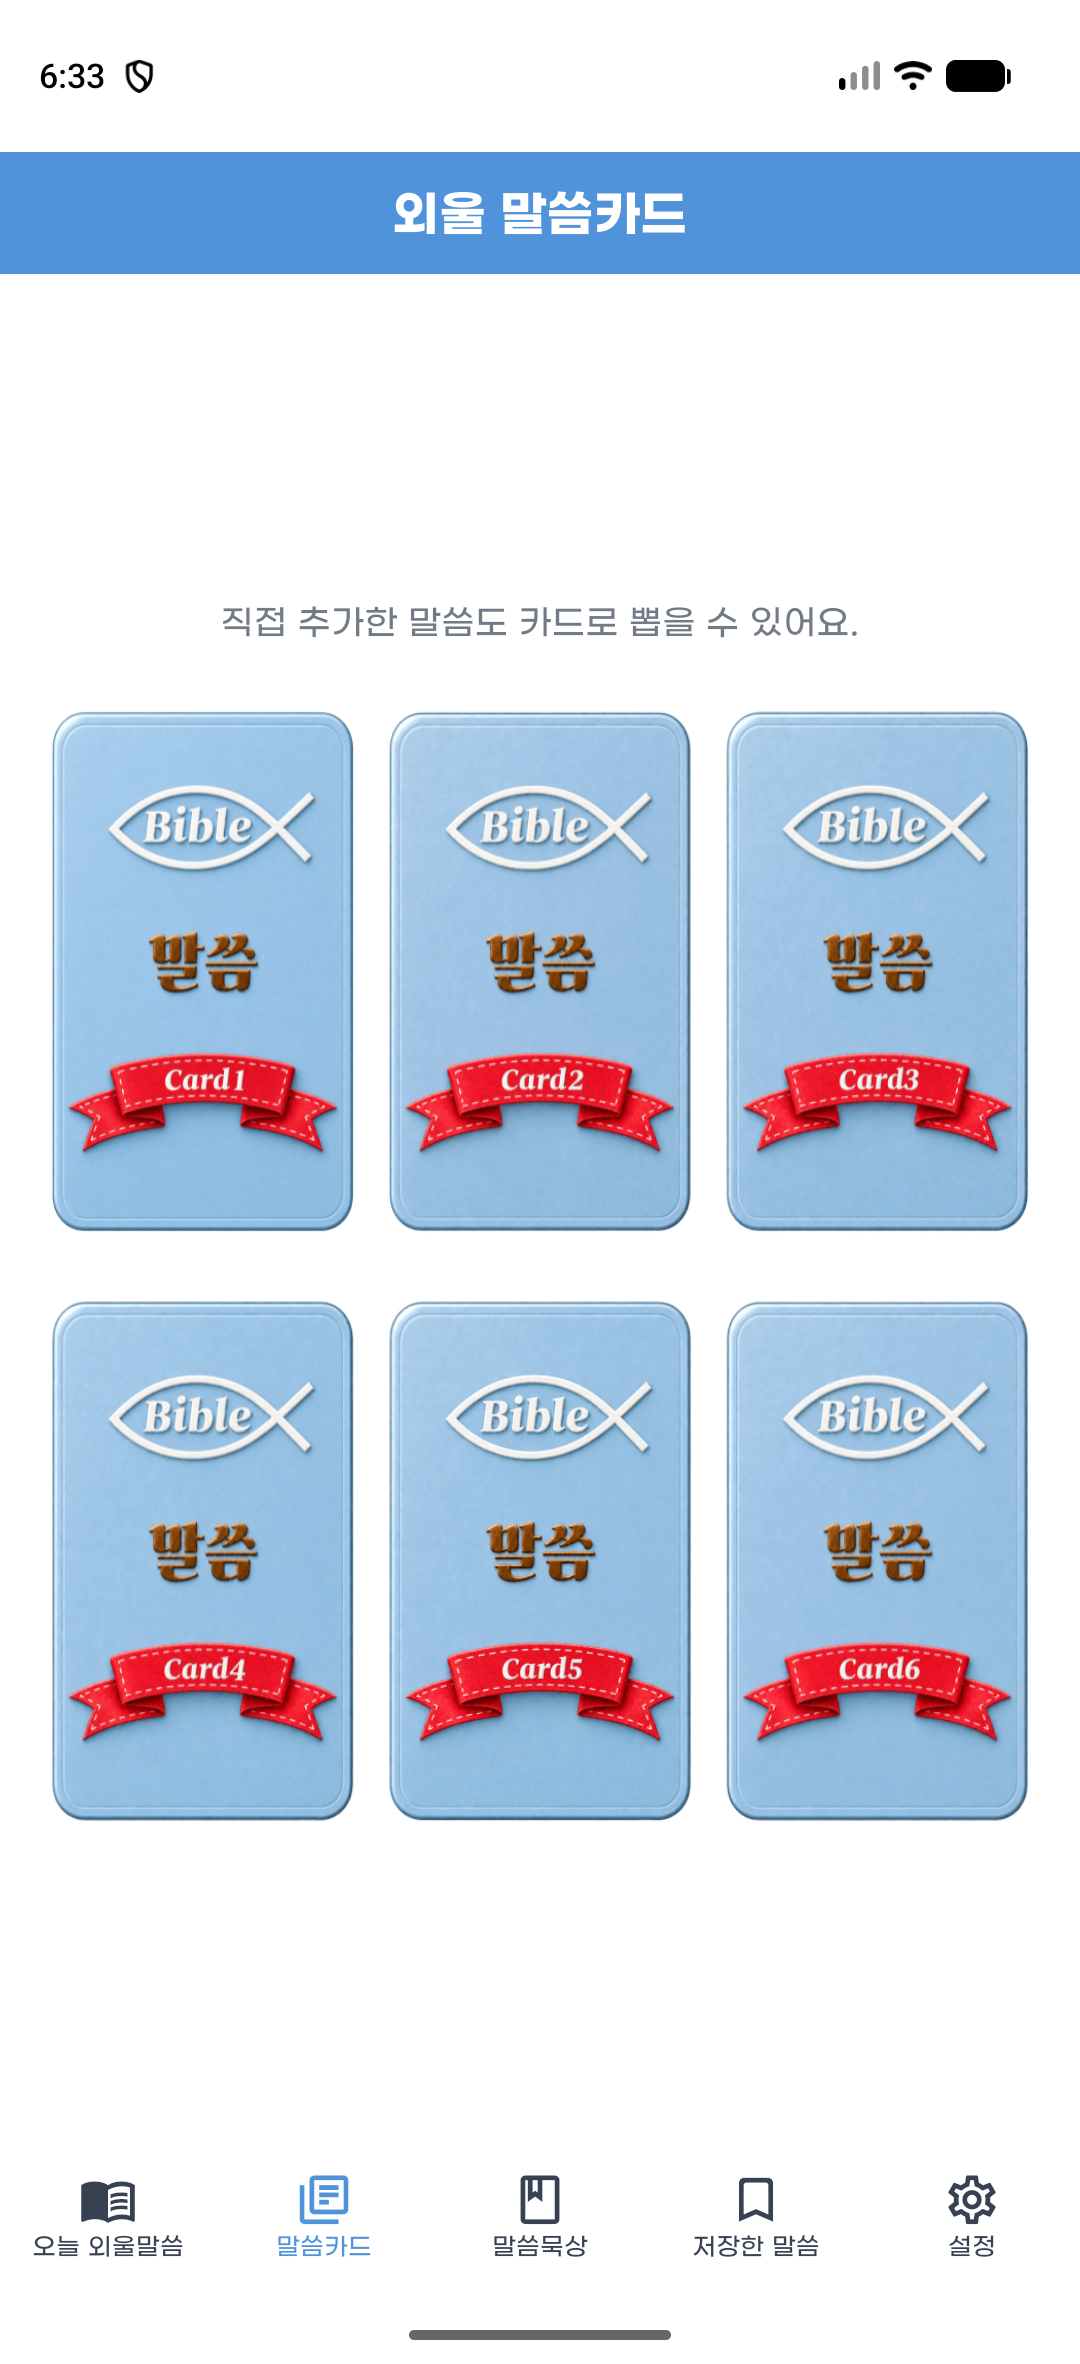
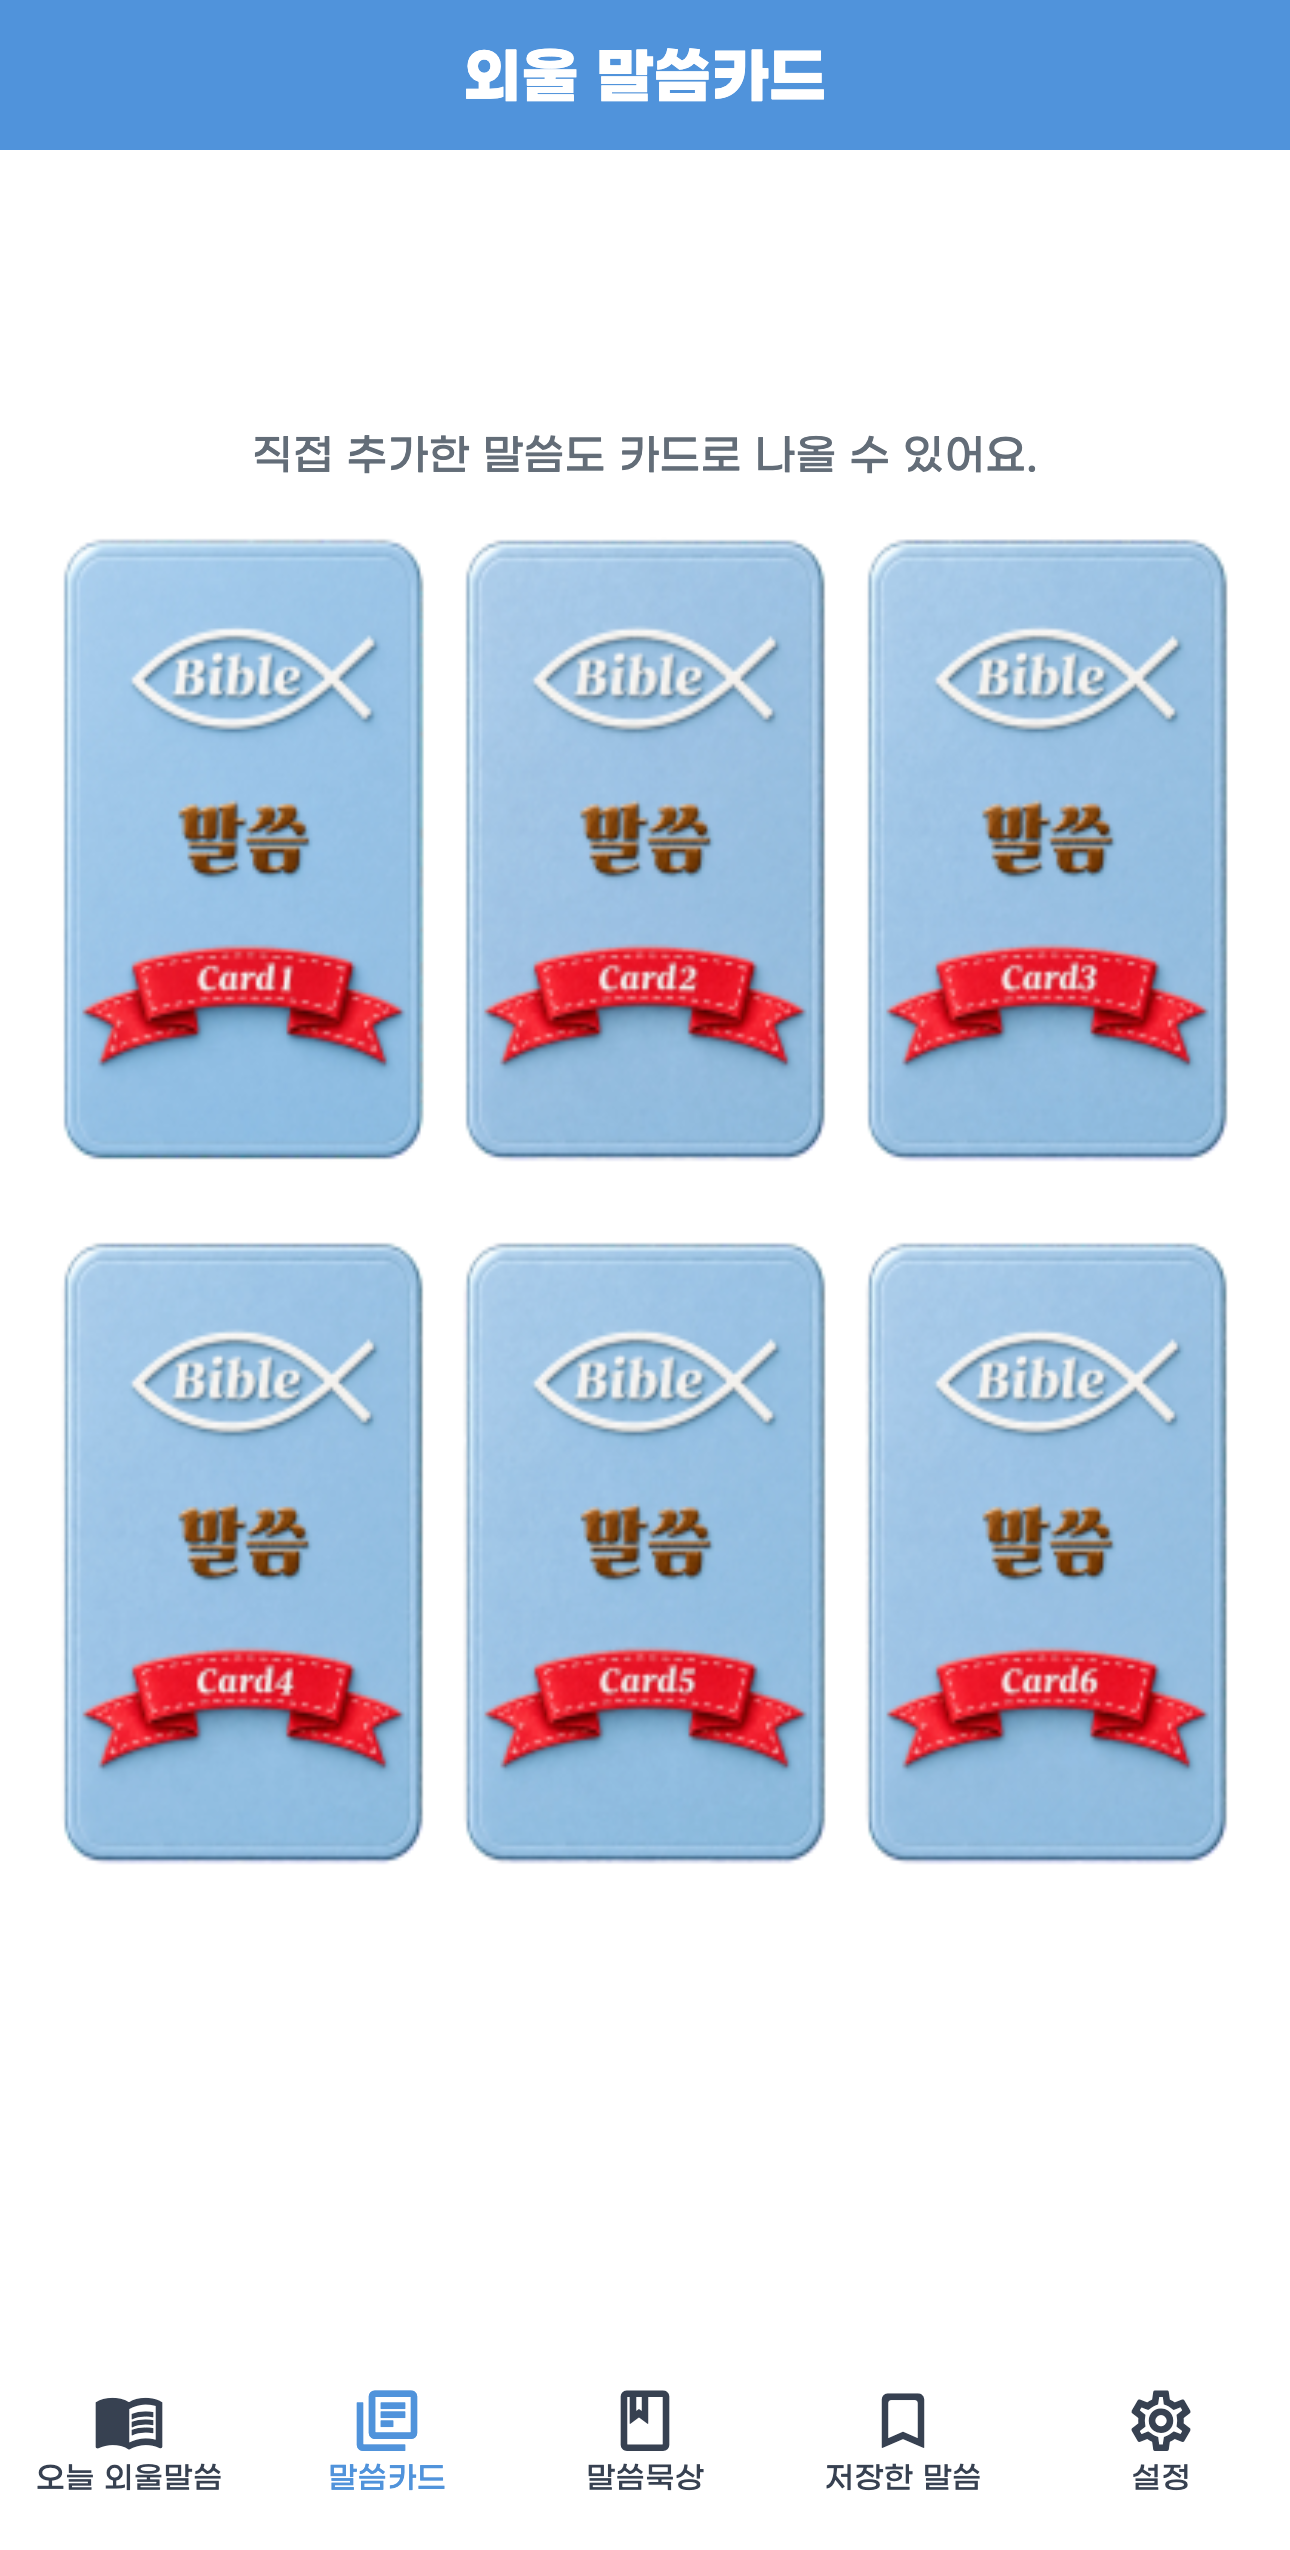
Update Bible verse card screenshots and bilingual image references

diff --git a/bible/index.html b/bible/index.html
@@ -17,10 +17,10 @@
 <a class="skip" href="#main">본문 바로가기</a>
 <header><nav class="wrap nav" aria-label="주 메뉴"><a class="brand" href="./"><img src="assets/app-icon.png" width="39" height="39" alt="">성경암송과 묵상</a><div class="nav-links"><div class="languages" role="group" aria-label="Language"><button type="button" data-language="ko" aria-pressed="true">한국어</button><button type="button" data-language="en" aria-pressed="false">English</button></div><a href="#features">앱 소개</a><a href="#screens">앱 화면</a><a href="#backup">백업과 복원</a><a class="nav-cta" href="#download">앱 다운로드 ↗</a></div></nav></header>
 <main id="main">
-<section class="wrap hero" aria-labelledby="hero-title"><div><div class="eyebrow">A MOMENT WITH THE WORD</div><h1 id="hero-title">말씀을 마음에,<br><em>묵상을 일상에.</em></h1><p class="lead">한 구절을 천천히 되새기는 시간.<br>오늘 마음에 닿은 말씀을 외우고,<br>당신만의 묵상을 차곡차곡 기록해 보세요.</p><div class="actions"><a class="button" href="https://apps.apple.com/kr/app/id6504849427">App Store <span aria-hidden="true">↗</span></a><a class="button secondary" href="https://play.google.com/store/apps/details?id=com.donghyun.biblecardkor">Google Play <span aria-hidden="true">↗</span></a></div><p class="platforms">iOS & Android · 성경암송과 묵상</p></div><div class="hero-art"><div class="halo" aria-hidden="true"></div><div class="phone back-phone"><img src="assets/screen-4.png" alt="성경 말씀 카드 선택 화면" width="1080" height="2364"></div><div class="phone"><img src="assets/screen-1.png" alt="오늘의 외울 말씀과 묵상 입력 화면" width="1080" height="2364" fetchpriority="high"></div><div class="hero-stamp"><span>Pause. Read. Reflect.</span>하루를 채우는 작은 말씀 습관</div><span class="art-note">SCRIPTURE · MEMORY · REFLECTION</span></div></section>
+<section class="wrap hero" aria-labelledby="hero-title"><div><div class="eyebrow">A MOMENT WITH THE WORD</div><h1 id="hero-title">말씀을 마음에,<br><em>묵상을 일상에.</em></h1><p class="lead">한 구절을 천천히 되새기는 시간.<br>오늘 마음에 닿은 말씀을 외우고,<br>당신만의 묵상을 차곡차곡 기록해 보세요.</p><div class="actions"><a class="button" href="https://apps.apple.com/kr/app/id6504849427">App Store <span aria-hidden="true">↗</span></a><a class="button secondary" href="https://play.google.com/store/apps/details?id=com.donghyun.biblecardkor">Google Play <span aria-hidden="true">↗</span></a></div><p class="platforms">iOS & Android · 성경암송과 묵상</p></div><div class="hero-art"><div class="halo" aria-hidden="true"></div><div class="phone back-phone"><img src="assets/screen-4.png?v=cards-v5" alt="성경 말씀 카드 선택 화면" width="1290" height="2550"></div><div class="phone"><img src="assets/screen-1.png" alt="오늘의 외울 말씀과 묵상 입력 화면" width="1080" height="2364" fetchpriority="high"></div><div class="hero-stamp"><span>Pause. Read. Reflect.</span>하루를 채우는 작은 말씀 습관</div><span class="art-note">SCRIPTURE · MEMORY · REFLECTION</span></div></section>
 <div class="intro"><div class="wrap"><p>짧은 구절 하나가, 하루의 깊이가 되도록.</p><small>말씀을 만나고 · 마음에 새기고 · 기록으로 남기세요</small></div></div>
 <section id="features" class="wrap section"><div class="section-heading"><div><div class="eyebrow">YOUR DAILY PRACTICE</div><h2>말씀과 가까워지는<br>나만의 작은 루틴</h2></div><p>부담 없이 한 구절부터 시작하세요.<br>읽기에서 암송으로, 암송에서 깊은 묵상으로<br>자연스럽게 이어집니다.</p></div><div class="steps"><article class="step"><span class="number">01 / Read</span><h3>오늘 만날 말씀</h3><p>오늘의 말씀과 주제별 구절을 살펴보세요. 마음에 남는 말씀을 저장하고, 나만의 주제와 구절도 추가할 수 있습니다.</p></article><article class="step"><span class="number">02 / Remember</span><h3>마음에 새기는 한 구절</h3><p>말씀 카드로 구절을 만나고, 반복해서 되새기세요. 말씀 알림과 화면 설정으로 일상에 맞는 암송 시간을 만들어 보세요.</p></article><article class="step"><span class="number">03 / Reflect</span><h3>나의 언어로 남기는 묵상</h3><p>말씀을 읽으며 떠오른 생각과 기도를 적어 보세요. 기록을 검색하며, 시간이 지나 다시 만나는 깨달음을 발견하세요.</p></article></div></section>
-<section id="screens" class="showcase"><div class="wrap"><div class="section-heading"><div><div class="eyebrow">A CLOSER LOOK</div><h2>당신의 말씀 시간이<br>머무는 곳</h2></div><p>한 구절의 만남부터 묵상의 기록까지.<br>실제 앱 화면으로 살펴보세요.</p></div><div class="screens"><figure class="screen"><div class="screen-stage"><div class="phone"><img loading="lazy" src="assets/screen-1.png" alt="사진과 성경 구절, 묵상 입력란이 있는 오늘의 말씀 화면" width="1080" height="2364"></div></div><figcaption>오늘의 말씀<span>하루의 시작, 마음에 닿는 한 구절</span></figcaption></figure><figure class="screen"><div class="screen-stage"><div class="phone"><img loading="lazy" src="assets/screen-4.png" alt="여섯 장의 말씀 카드 중 외울 카드를 고르는 화면" width="1080" height="2364"></div></div><figcaption>말씀 카드<span>꺼내 볼수록 더 가까워지는 말씀</span></figcaption></figure><figure class="screen"><div class="screen-stage"><div class="phone"><img loading="lazy" src="assets/screen-5.png" alt="사진과 주제명으로 구성된 주제별 성경 말씀 화면" width="1080" height="2364"></div></div><figcaption>주제별 말씀묵상<span>마음에 필요한 말씀을 주제별로</span></figcaption></figure></div><p class="source-note">현재 개발 중인 Flutter 앱의 실제 Android 화면입니다. 운영체제와 화면 설정에 따라 표시가 다를 수 있습니다.</p></div></section>
+<section id="screens" class="showcase"><div class="wrap"><div class="section-heading"><div><div class="eyebrow">A CLOSER LOOK</div><h2>당신의 말씀 시간이<br>머무는 곳</h2></div><p>한 구절의 만남부터 묵상의 기록까지.<br>실제 앱 화면으로 살펴보세요.</p></div><div class="screens"><figure class="screen"><div class="screen-stage"><div class="phone"><img loading="lazy" src="assets/screen-1.png" alt="사진과 성경 구절, 묵상 입력란이 있는 오늘의 말씀 화면" width="1080" height="2364"></div></div><figcaption>오늘의 말씀<span>하루의 시작, 마음에 닿는 한 구절</span></figcaption></figure><figure class="screen"><div class="screen-stage"><div class="phone"><img loading="lazy" src="assets/screen-4.png?v=cards-v5" alt="여섯 장의 말씀 카드 중 외울 카드를 고르는 화면" width="1290" height="2550"></div></div><figcaption>말씀 카드<span>꺼내 볼수록 더 가까워지는 말씀</span></figcaption></figure><figure class="screen"><div class="screen-stage"><div class="phone"><img loading="lazy" src="assets/screen-5.png" alt="사진과 주제명으로 구성된 주제별 성경 말씀 화면" width="1080" height="2364"></div></div><figcaption>주제별 말씀묵상<span>마음에 필요한 말씀을 주제별로</span></figcaption></figure></div><p class="source-note">현재 개발 중인 Flutter 앱의 실제 Android 화면입니다. 운영체제와 화면 설정에 따라 표시가 다를 수 있습니다.</p></div></section>
 <section id="backup" class="wrap section backup"><div><div class="eyebrow">KEEP WHAT MATTERS</div><h2>소중한 묵상,<br>다음 기기에서도 이어서.</h2><p>말씀, 묵상, 주제, 사진 배정과 앱 설정을<br>사용자의 Google Drive에 백업할 수 있습니다.<br>같은 Google 계정으로 Android와 iOS 사이에서도<br>기록을 복원하세요.</p><p class="fine">백업과 복원은 사용자가 선택할 때 진행됩니다.<br>Google 로그인과 파일 접근 권한은 해당 기능 이용 시 필요합니다.</p></div><div class="backup-visual" role="img" aria-label="Google Drive를 통해 Android와 iOS 사이에서 백업과 복원"><div class="sync"><div class="device"><b>Aa</b>Android</div><span class="sync-arrow" aria-hidden="true">⇄</span><div class="device"><b>Aa</b>iOS</div></div><p class="cloud-label">Google Drive<br>나의 계정으로 이어지는 말씀과 기록</p></div></section>
 <section class="wrap faq"><div class="faq-grid"><div><div class="eyebrow">GOOD TO KNOW</div><h2>시작하기 전에</h2></div><div><details><summary>어떤 기기에서 사용할 수 있나요?</summary><p>iPhone과 Android에서 사용할 수 있습니다. 각 스토어에서 지원하는 운영체제와 기기 정보를 확인해 주세요.</p></details><details><summary>나만의 말씀과 주제를 추가할 수 있나요?</summary><p>말씀을 저장하고, 사용자 지정 주제와 구절을 추가할 수 있습니다. 묵상 작성과 검색 기능도 이용할 수 있습니다.</p></details><details><summary>Google 로그인이 꼭 필요한가요?</summary><p>Google 로그인과 파일 접근 권한은 Google Drive 백업·복원 기능을 선택할 때 필요합니다. 자세한 데이터 처리 내용은 개인정보처리방침에서 확인할 수 있습니다.</p></details></div></div></section>
 <section id="download" class="download"><div class="eyebrow">MAKE ROOM FOR THE WORD</div><h2>오늘, 한 구절로 시작해 보세요.</h2><p>당신의 일상에 조용히 스며드는 말씀과 묵상.</p><div class="actions"><a class="button" href="https://apps.apple.com/kr/app/id6504849427">App Store에서 다운로드 ↗</a><a class="button secondary" href="https://play.google.com/store/apps/details?id=com.donghyun.biblecardkor">Google Play에서 다운로드 ↗</a></div></section>
@@ -45,7 +45,7 @@
     entries.forEach(({element, ko, en}) => { element.innerHTML = lang === 'en' ? en : ko; });
     images.forEach(({image, ko, en, alt}) => {
       image.src = lang === 'en' ? en : ko;
-      image.alt = lang === 'en' ? englishAlts[ko.split('/').pop()] : alt;
+      image.alt = lang === 'en' ? englishAlts[ko.split('/').pop().split('?')[0]] : alt;
     });
     document.title = lang === 'en' ? 'Bible Memory & Meditation — A moment with the Word' : '성경암송과 묵상 — 말씀과 함께 깊어지는 하루';
     description.content = lang === 'en' ? 'Keep Scripture close. Explore verse cards and topics, write reflections, and back up your records with Google Drive.' : koreanDescription;
